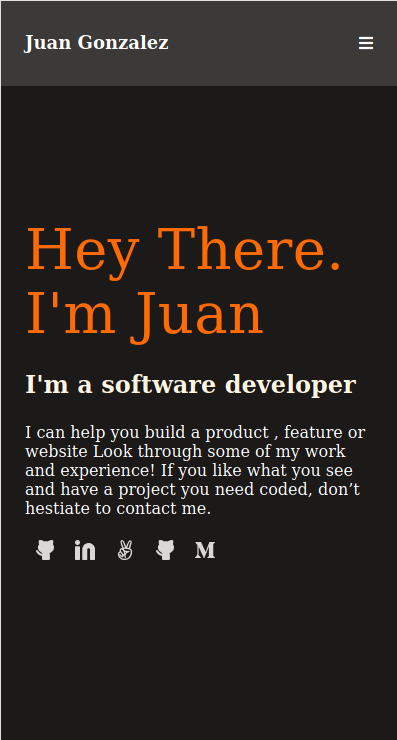
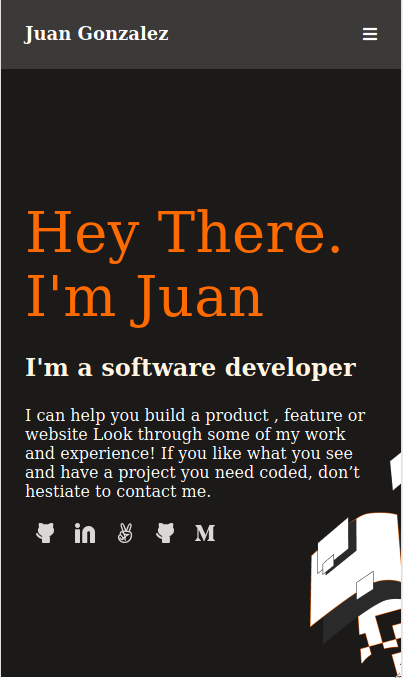
Add updated demo image and correct linters erros

diff --git a/index.html b/index.html
@@ -23,27 +23,27 @@
             </div>
             <ul class="social">
                 <li>
-                    <a href="https://github.com/JbirdL86" target="_blank">
+                    <a href="https://github.com/JbirdL86" rel="noopener" target="_blank">
                     <img src="assets/github.png" alt="github-icon" />
                 </a>
                 </li>
                 <li>
-                    <a href="https://www.linkedin.com/in/juan-luis-0551921aa/" target="_blank">
+                    <a href="https://www.linkedin.com/in/juan-luis-0551921aa/" rel="noopener" target="_blank">
                         <img src="assets/linkd.png" alt="linkd-icon" />
                     </a>
                 </li>
                 <li>
-                    <a href="https://hackernoon.com/u/JbirdL86" target="_blank">
+                    <a href="https://hackernoon.com/u/JbirdL86" rel="noopener" target="_blank">
                         <img src="assets/ig.png" alt="hackernoon-icon" />
                     </a>
                 </li>
                 <li>
-                    <a href="https://twitter.com/JuanLui06498455" target="_blank">
+                    <a href="https://twitter.com/JuanLui06498455" rel="noopener" target="_blank">
                     <img src="assets/github.png" alt="twitter-icon" />
                     </a>
                 </li>
                 <li>
-                    <a href="https://medium.com/@jgonzalez.wj" target="_blank">
+                    <a href="https://medium.com/@jgonzalez.wj" rel="noopener" target="_blank">
                         <img src="assets/medium.png" alt="medium-icon" />
                     </a>
                 </li>

diff --git a/style.css b/style.css
@@ -1,17 +1,17 @@
 * {
-    margin: 0;
-    padding: 0;
-    box-sizing: border-box;
-    list-style-type: none;
-    text-decoration: none;
-  }
+  margin: 0;
+  padding: 0;
+  box-sizing: border-box;
+  list-style-type: none;
+  text-decoration: none;
+}
 
-  header {
-      display: block;
-  }
+header {
+  display: block;
+}
 
 .navbar {
-  background-color: #3C3A39;
+  background-color: #3c3a39;
   color: white;
   display: flex;
   justify-content: space-between;
@@ -21,31 +21,33 @@
   padding: 0 24px;
 }
 
-.navbar > *{
+.navbar > * {
   color: white;
 }
 
 .profile {
   font-style: normal;
-  font-weight: bold; 
+  font-weight: bold;
   font-size: 18px;
   line-height: 24px;
   align-self: center;
 }
 
 .introduction {
-  background-color: #1C1A19;
+  background-color: #1c1a19;
   display: flex;
   flex-direction: column;
   align-items: flex-start;
-  height: 90vh;
   width: 100%;
   padding: 120px 24px;
+  background-image: url(assets/illustration-header-mobile.png);
+  background-position: right 125%;
+  background-repeat: no-repeat;
 }
 
 .introduction > div {
-    display: flex;
-    flex-direction: column;
+  display: flex;
+  flex-direction: column;
 }
 
 .introduction > div > * {
@@ -53,7 +55,7 @@
 }
 
 .presentation {
-  color: #FF6B00;
+  color: #ff6b00;
   margin-top: 120px;
   font-size: 56px;
   font-weight: normal;
@@ -65,7 +67,7 @@
 }
 
 .profesion {
-  color: #FFF5E1;
+  color: #fff5e1;
   font-size: 24px;
   font-style: normal;
   font-weight: bold;
@@ -74,10 +76,9 @@
 }
 
 .context {
-  color: #FFFFFF;
+  color: #fff;
   order: 2;
   flex-grow: 0;
-
 }
 
 .social {

diff --git a/README.md b/README.md
@@ -5,7 +5,7 @@
 > Portfolio is a Microverse project where we get to build our own responsive portfolio by creating a webpage from a figma design template. This project will demostrate our knoledge using HTML and CSS but mostly some display properties such as flexbox, we'll also demostrate knowledge using the background property.
 
 
-![screenshot](https://rawcdn.githack.com/JbirdL86/Hello-World/6b13fe40173fca2382ccd5af586136d93779e768/index.html)
+![screenshot](assets/demo.png)
 
 
 ## Built With
@@ -15,7 +15,7 @@
 
 ## Live Demo
 
-[Live Demo Link](https://rawcdn.githack.com/JbirdL86/Hello-Microverse/67410abe5d2786e9eaa774109edb5c6a6838c148/index.html
+[Live Demo Link](https://rawcdn.githack.com/JbirdL86/Portfolio/07c3d363d6832ffa2ebd2d0ddf109757e79abf42/index.html)
 
 
 ## Authors
